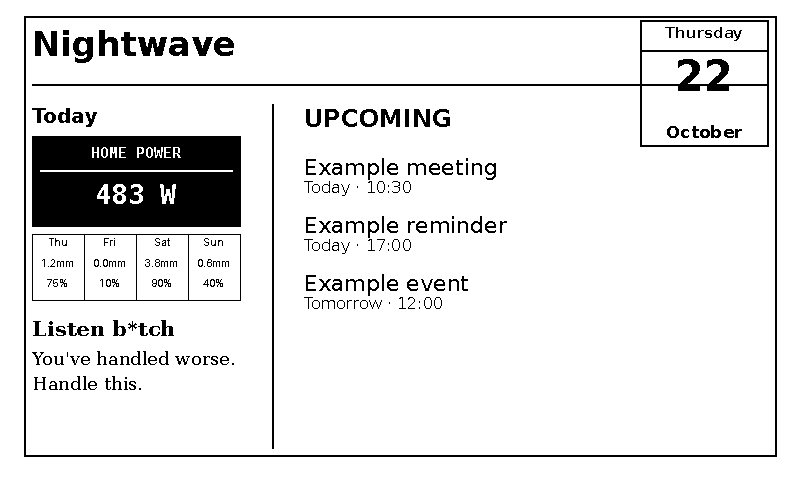
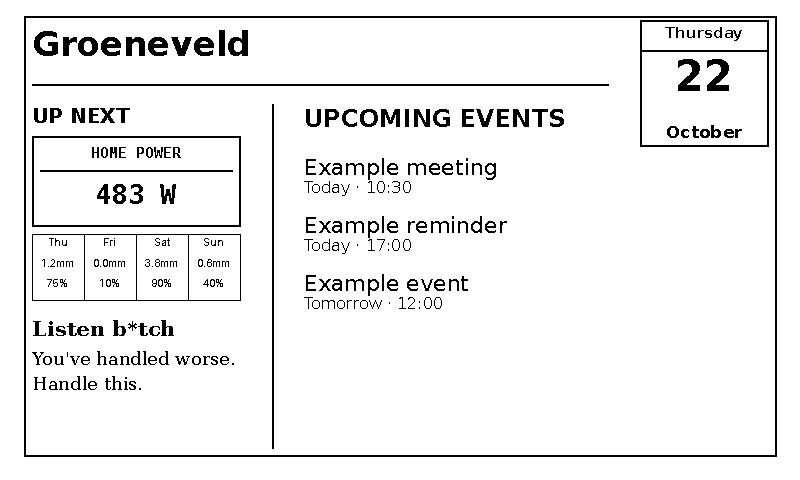
Refine the Groeneveld Nightwave view

diff --git a/server/README.md b/server/README.md
@@ -86,7 +86,7 @@ command. Power displays “Unavailable” until a Home Assistant power source is
 configured. The sample below uses a fictional 483 W reading. It renders through
 the same `Renderer` and 1-bit frame conversion used by the device endpoint:
 
-![Nightwave example rendered as an 800 by 480 monochrome frame](../docs/nightwave-preview.png)
+![Groeneveld Nightwave example rendered as an 800 by 480 monochrome frame](../docs/nightwave-preview.png)
 
 ![Rendered sample frame from the editable layout with a fictional power reading of 483 W](../docs/frame-preview.png)
 
